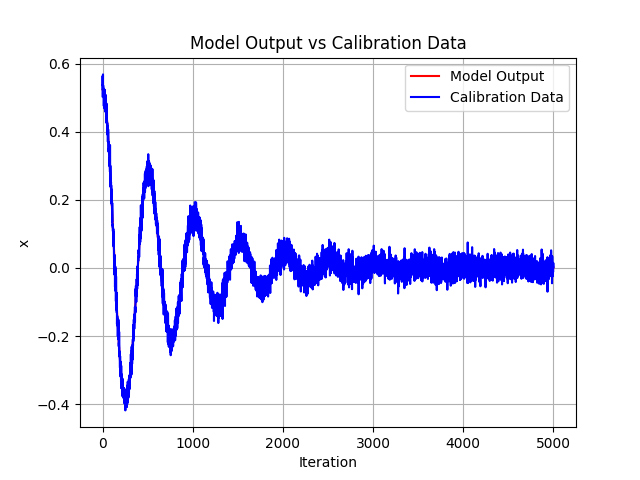
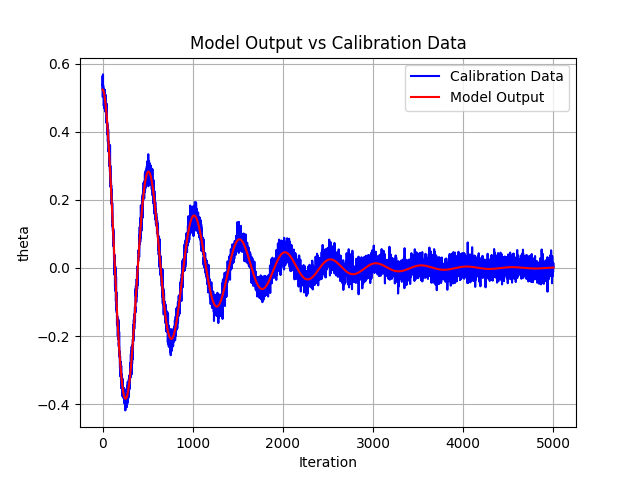
Improved graph images

diff --git a/Assignment_1/parameter_tuning.py b/Assignment_1/parameter_tuning.py
@@ -97,7 +97,7 @@ def smallestErrorMultiThread(q: queue.Queue, calibration_file):
     return (smallest_error, smallest_error_data, param_value)
 
 
-def plotData(param_value, error_value, calibration_file, output_file):
+def plotData(param_value, error_value, calibration_file, output_file, param_name):
     """Plot the model data and the calibration data
     
     Args:
@@ -105,6 +105,7 @@ def plotData(param_value, error_value, calibration_file, output_file):
         error_value (str): Value of smallest error, part of file name.
         calibration_file (str): File name to open for calibration data.
         output_file (str): Part of output file name.
+        param_name (str): Label on y value.
     """
     data1 = pd.read_csv(f"answers/part_2/{output_file}_{param_value}_{error_value}.csv")
     data2 = pd.read_csv(calibration_file)
@@ -112,11 +113,11 @@ def plotData(param_value, error_value, calibration_file, output_file):
     extracted_data1 = data1.iloc[:, 1]
     extracted_data2 = data2.iloc[:, 1]
     
-    plt.plot(extracted_data1, label="Model Output", color="red")
     plt.plot(extracted_data2, label="Calibration Data", color="blue")
+    plt.plot(extracted_data1, label="Model Output", color="red")
     
     plt.xlabel("Iteration")
-    plt.ylabel("x")
+    plt.ylabel(param_name)
     plt.title("Model Output vs Calibration Data")
     
     plt.legend()
@@ -127,7 +128,7 @@ def plotData(param_value, error_value, calibration_file, output_file):
     plt.figure()
     plt.plot(extracted_data1, label="Model Output", color="red")
     plt.xlabel("Iteration")
-    plt.ylabel("x")
+    plt.ylabel(param_name)
     plt.title("Model Output")
     
     plt.legend()
@@ -138,7 +139,7 @@ def plotData(param_value, error_value, calibration_file, output_file):
     plt.figure()
     plt.plot(extracted_data2, label="Calibration Output", color="blue")
     plt.xlabel("Iteration")
-    plt.ylabel("x")
+    plt.ylabel(param_name)
     plt.title("Calibration Data")
     
     plt.legend()
@@ -224,12 +225,9 @@ def runExperiment(exp=1, interval=5.00/10000):
     # # delete the traces exp1 folder
     # shutil.rmtree(f"traces/exp{exp}")
 
-    plotData(param_value, error_output[0], calibration_file, output_file)
+    plotData(param_value, error_output[0], calibration_file, output_file, param_name)
 
-            
-def runExperimintTwo():
-    pass
 
 if __name__ == "__main__":
-    # runExperiment(1)
-    runExperiment(2)
+    runExperiment(1)
+    # runExperiment(2)
